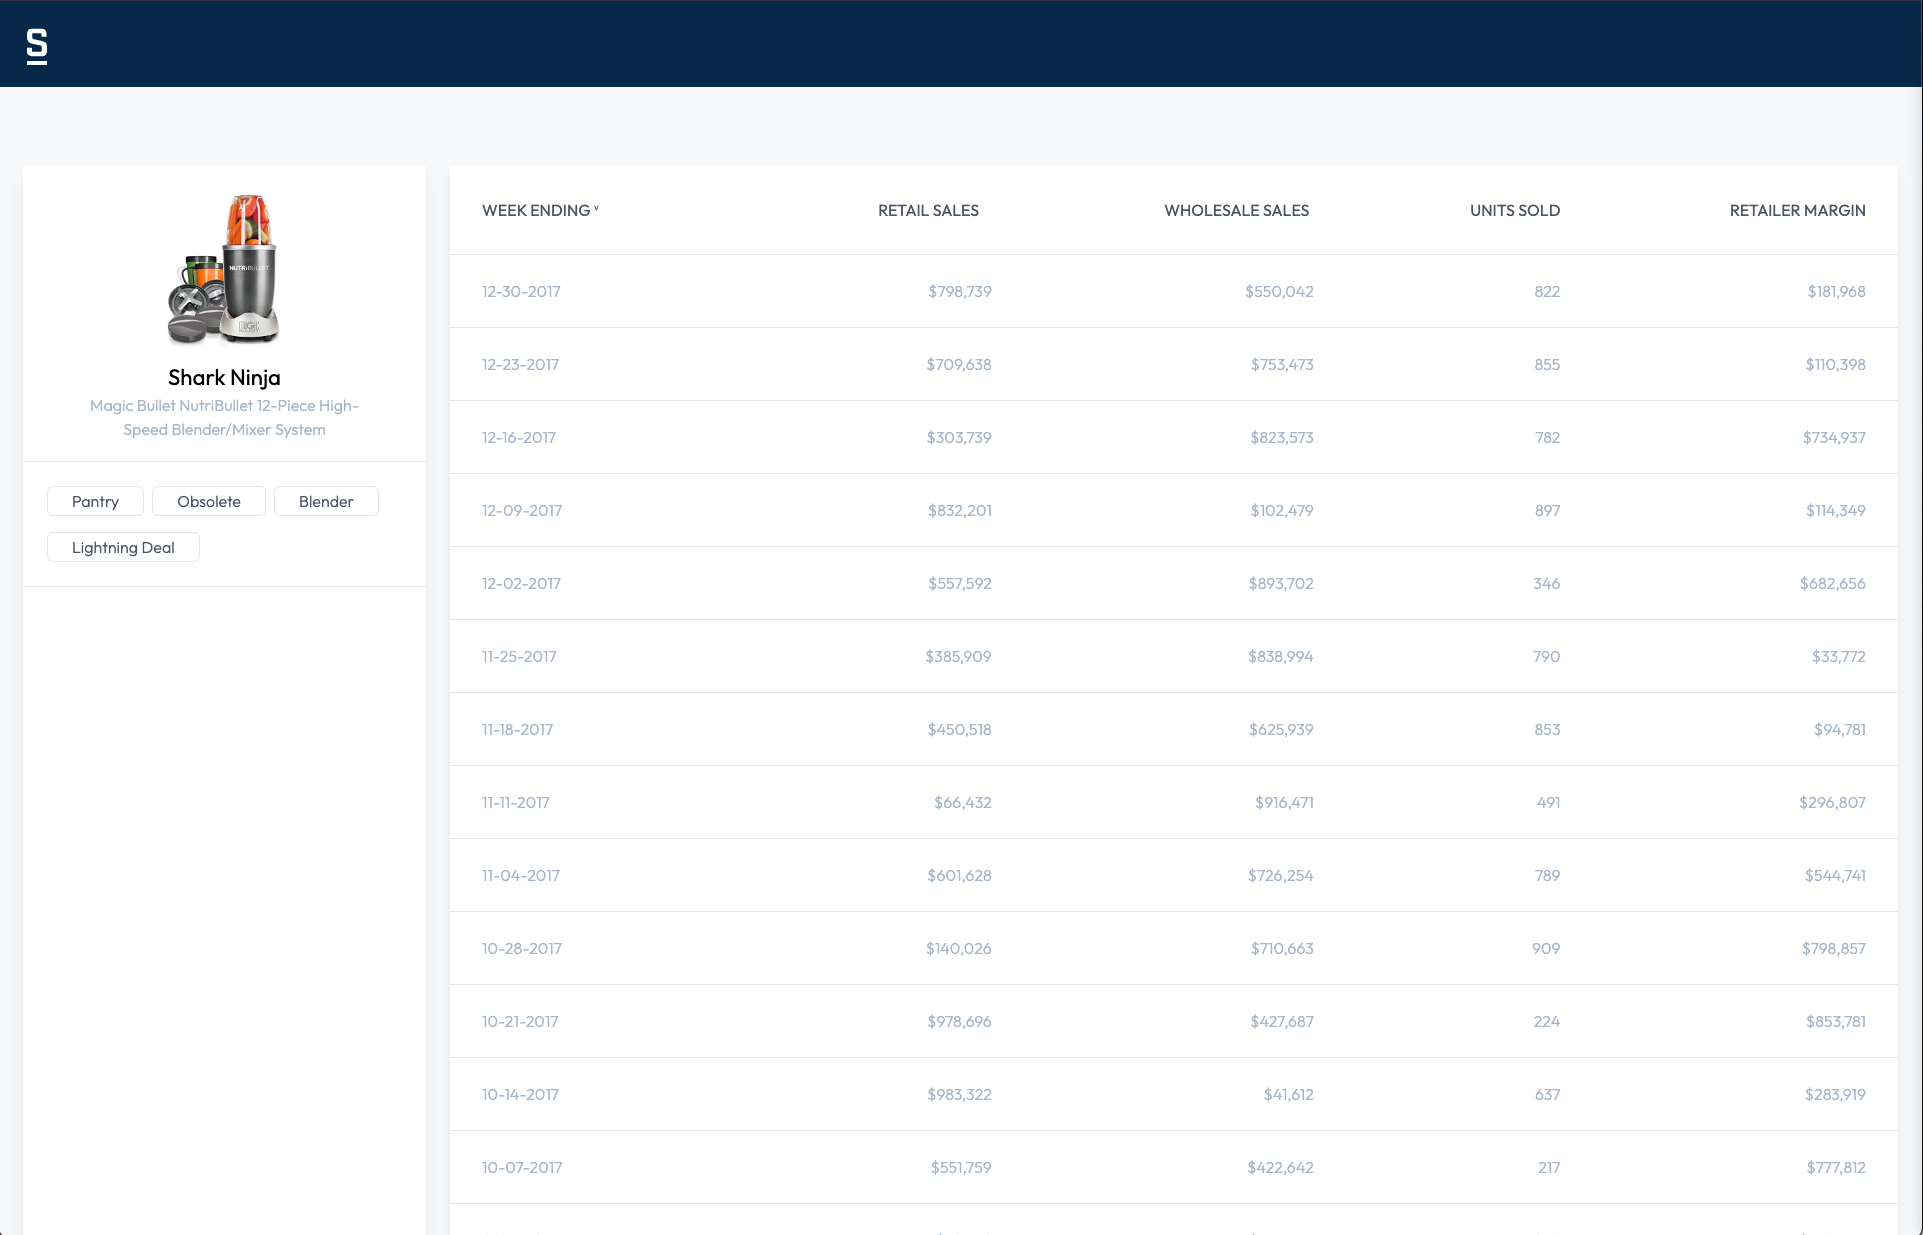
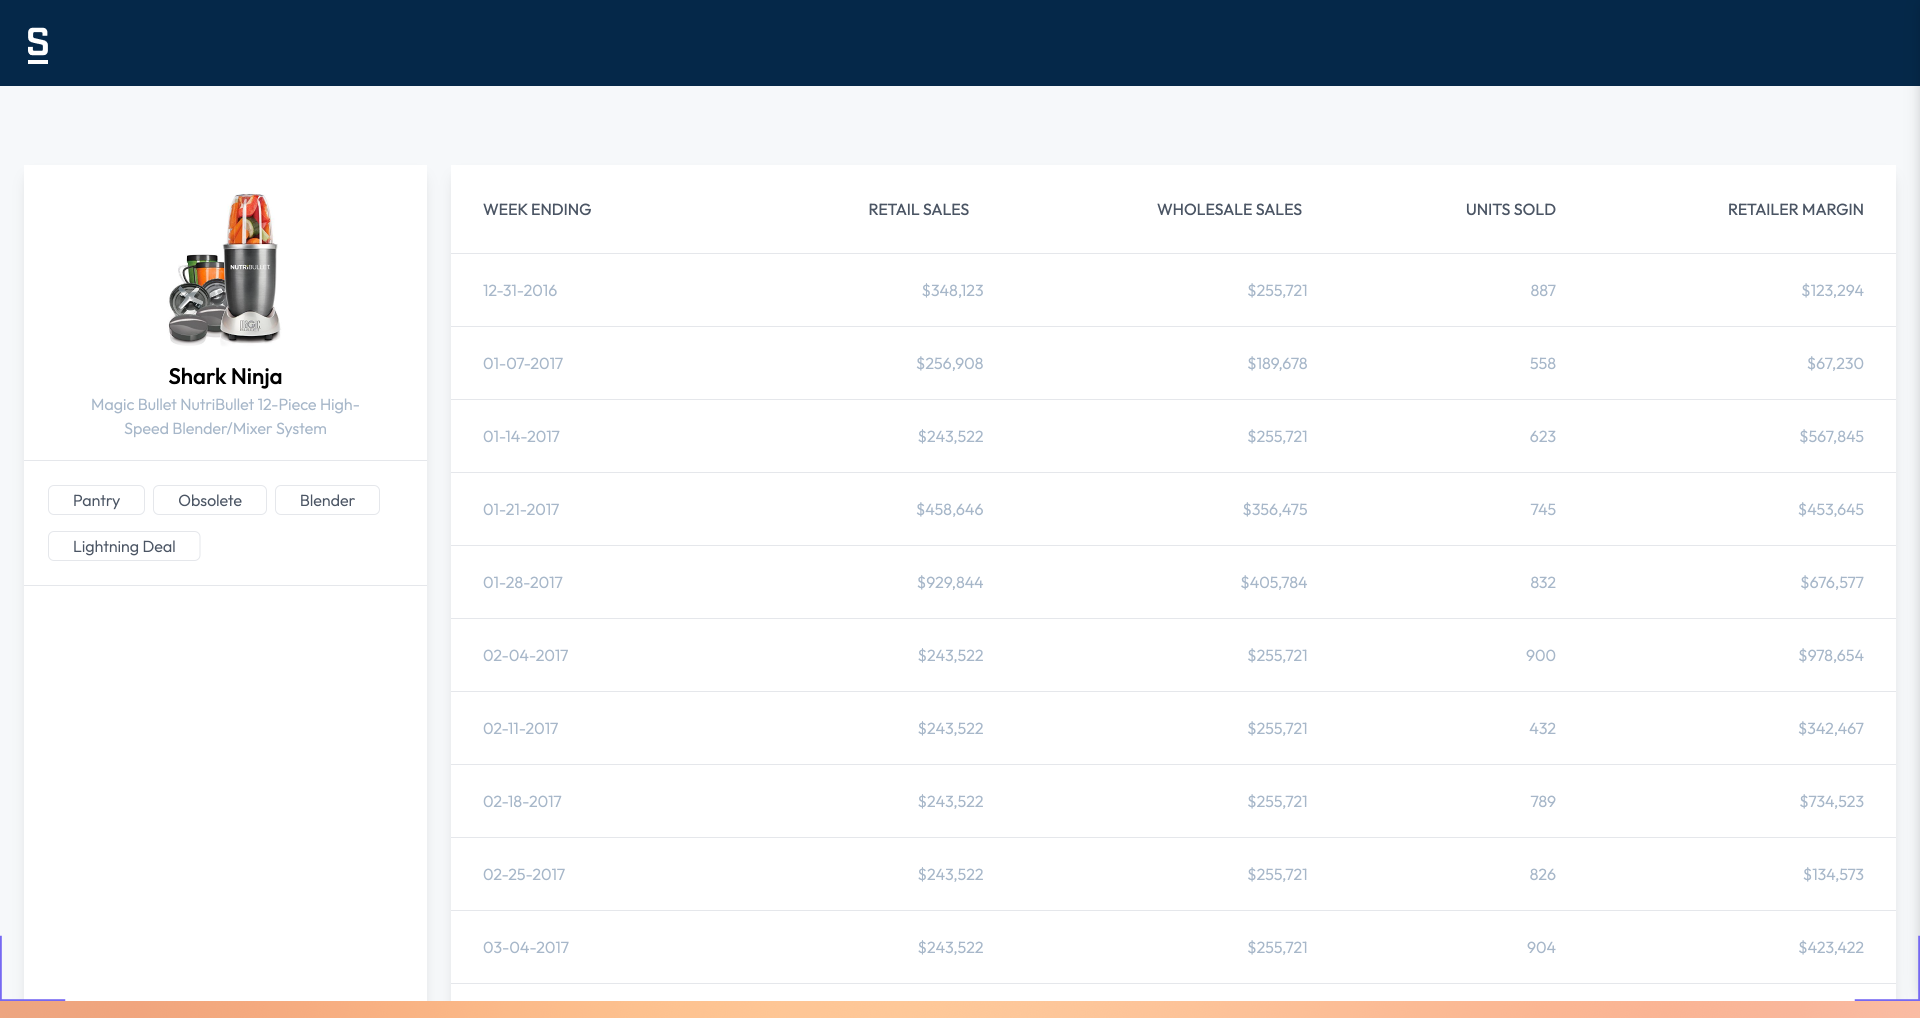
increase font-weight for product

diff --git a/src/components/ProductSidebar.tsx b/src/components/ProductSidebar.tsx
@@ -18,7 +18,7 @@ function ProductSidebar({product}: ProductSidebarProps) {
         alt="Shark Ninja"
         className="mx-auto"
       />
-      <h1 className="text-[1.39rem] text-center font-normal mt-3">
+      <h1 className="text-[1.39rem] text-center font-medium mt-3">
         {product.title}
       </h1>
       <p className="text-md text-center mt-1 mb-5 text-[#A7B7C9] pl-14 pr-14">
